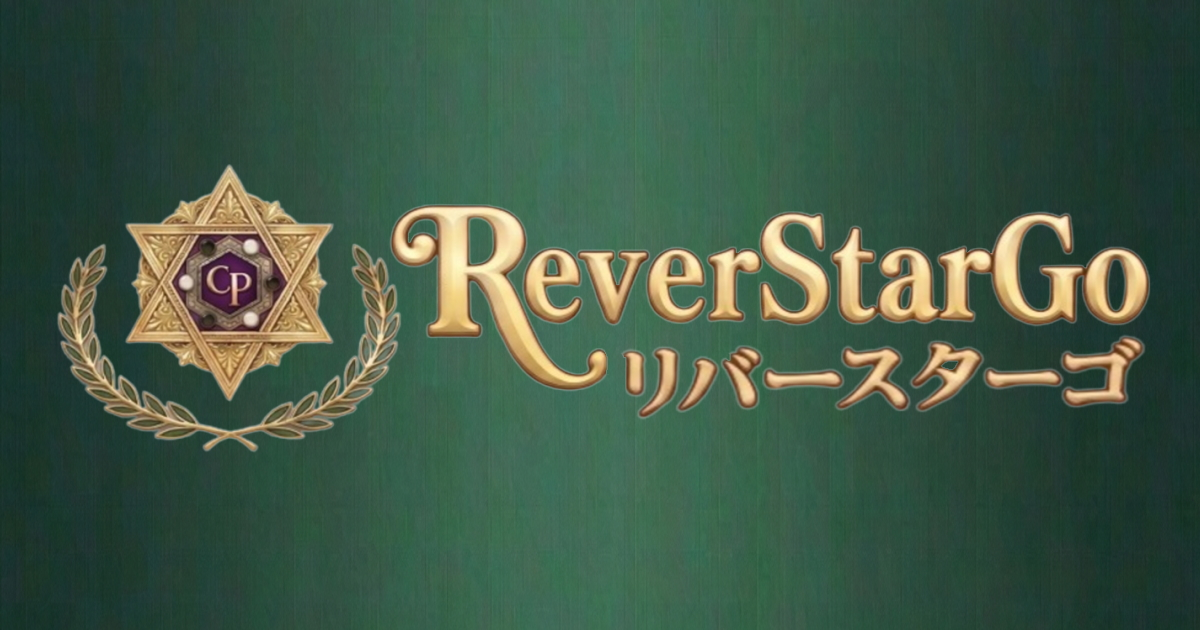
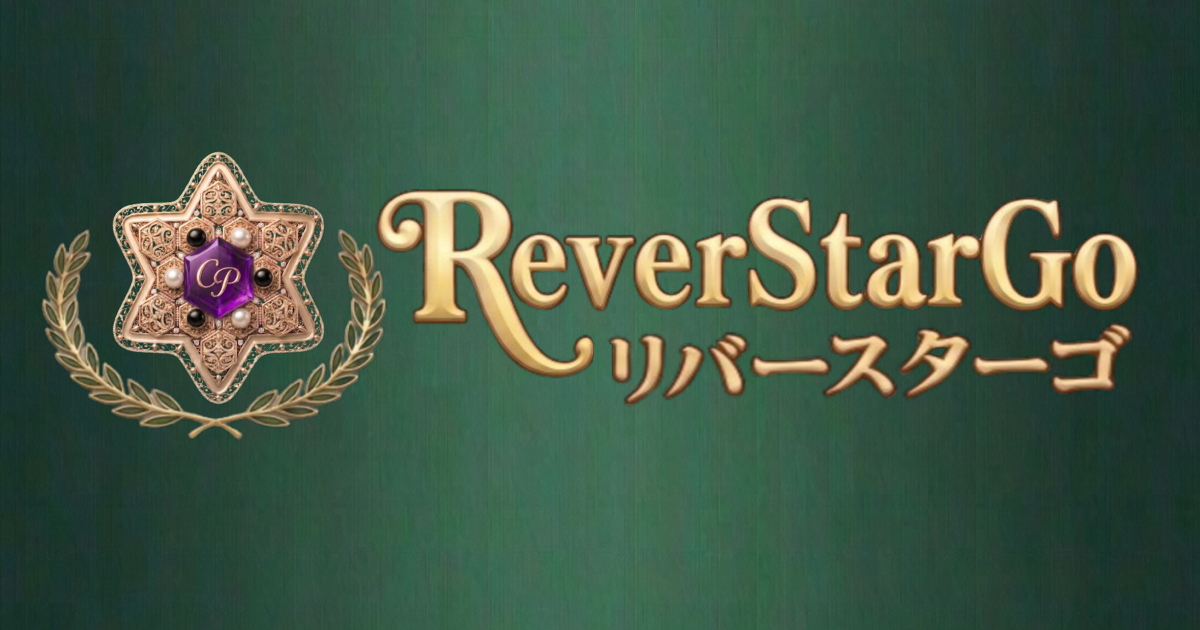
Update English images and bump cache version to v32
Apply the same new rounded star logo/icon design to the /en/ directory
(bg.jpg, favicon.png, icon.png, logo.png, ogp.jpg). Bump service worker
cache names to v32 in both sw.js files so returning users receive the
new images instead of cached v31 versions. Update the app version label
shown in both index.html files from RSG-v31 to RSG-v32.

Changed region(s): [[0.0308, 0.2413, 0.9558, 0.7238]]

diff --git a/index.html b/index.html
@@ -2484,7 +2484,7 @@
       </div>
     </div>
     <p id="dev-mode-indicator" class="dev-mode-indicator" style="display:none;" onclick="activateDevMode()">🔧 開発者モード実行中</p>
-    <p class="app-version">RSG-v31</p>
+    <p class="app-version">RSG-v32</p>
   </div>
 
   <!-- ゲーム設定ページ（新規） -->

diff --git a/en/index.html b/en/index.html
@@ -2484,7 +2484,7 @@
       </div>
     </div>
     <p id="dev-mode-indicator" class="dev-mode-indicator" style="display:none;" onclick="activateDevMode()">🔧 Developer Mode Active</p>
-    <p class="app-version">RSG-v31</p>
+    <p class="app-version">RSG-v32</p>
   </div>
 
   <!-- Game Setup Page -->

diff --git a/en/sw.js b/en/sw.js
@@ -1,4 +1,4 @@
-const CACHE_NAME = 'reverstargo-en-v31';
+const CACHE_NAME = 'reverstargo-en-v32';
 const ASSETS = [
   '/en/',
   '/en/index.html',

diff --git a/sw.js b/sw.js
@@ -1,4 +1,4 @@
-const CACHE_NAME = 'reverstargo-v31';
+const CACHE_NAME = 'reverstargo-v32';
 const ASSETS = [
   '/',
   '/index.html',
